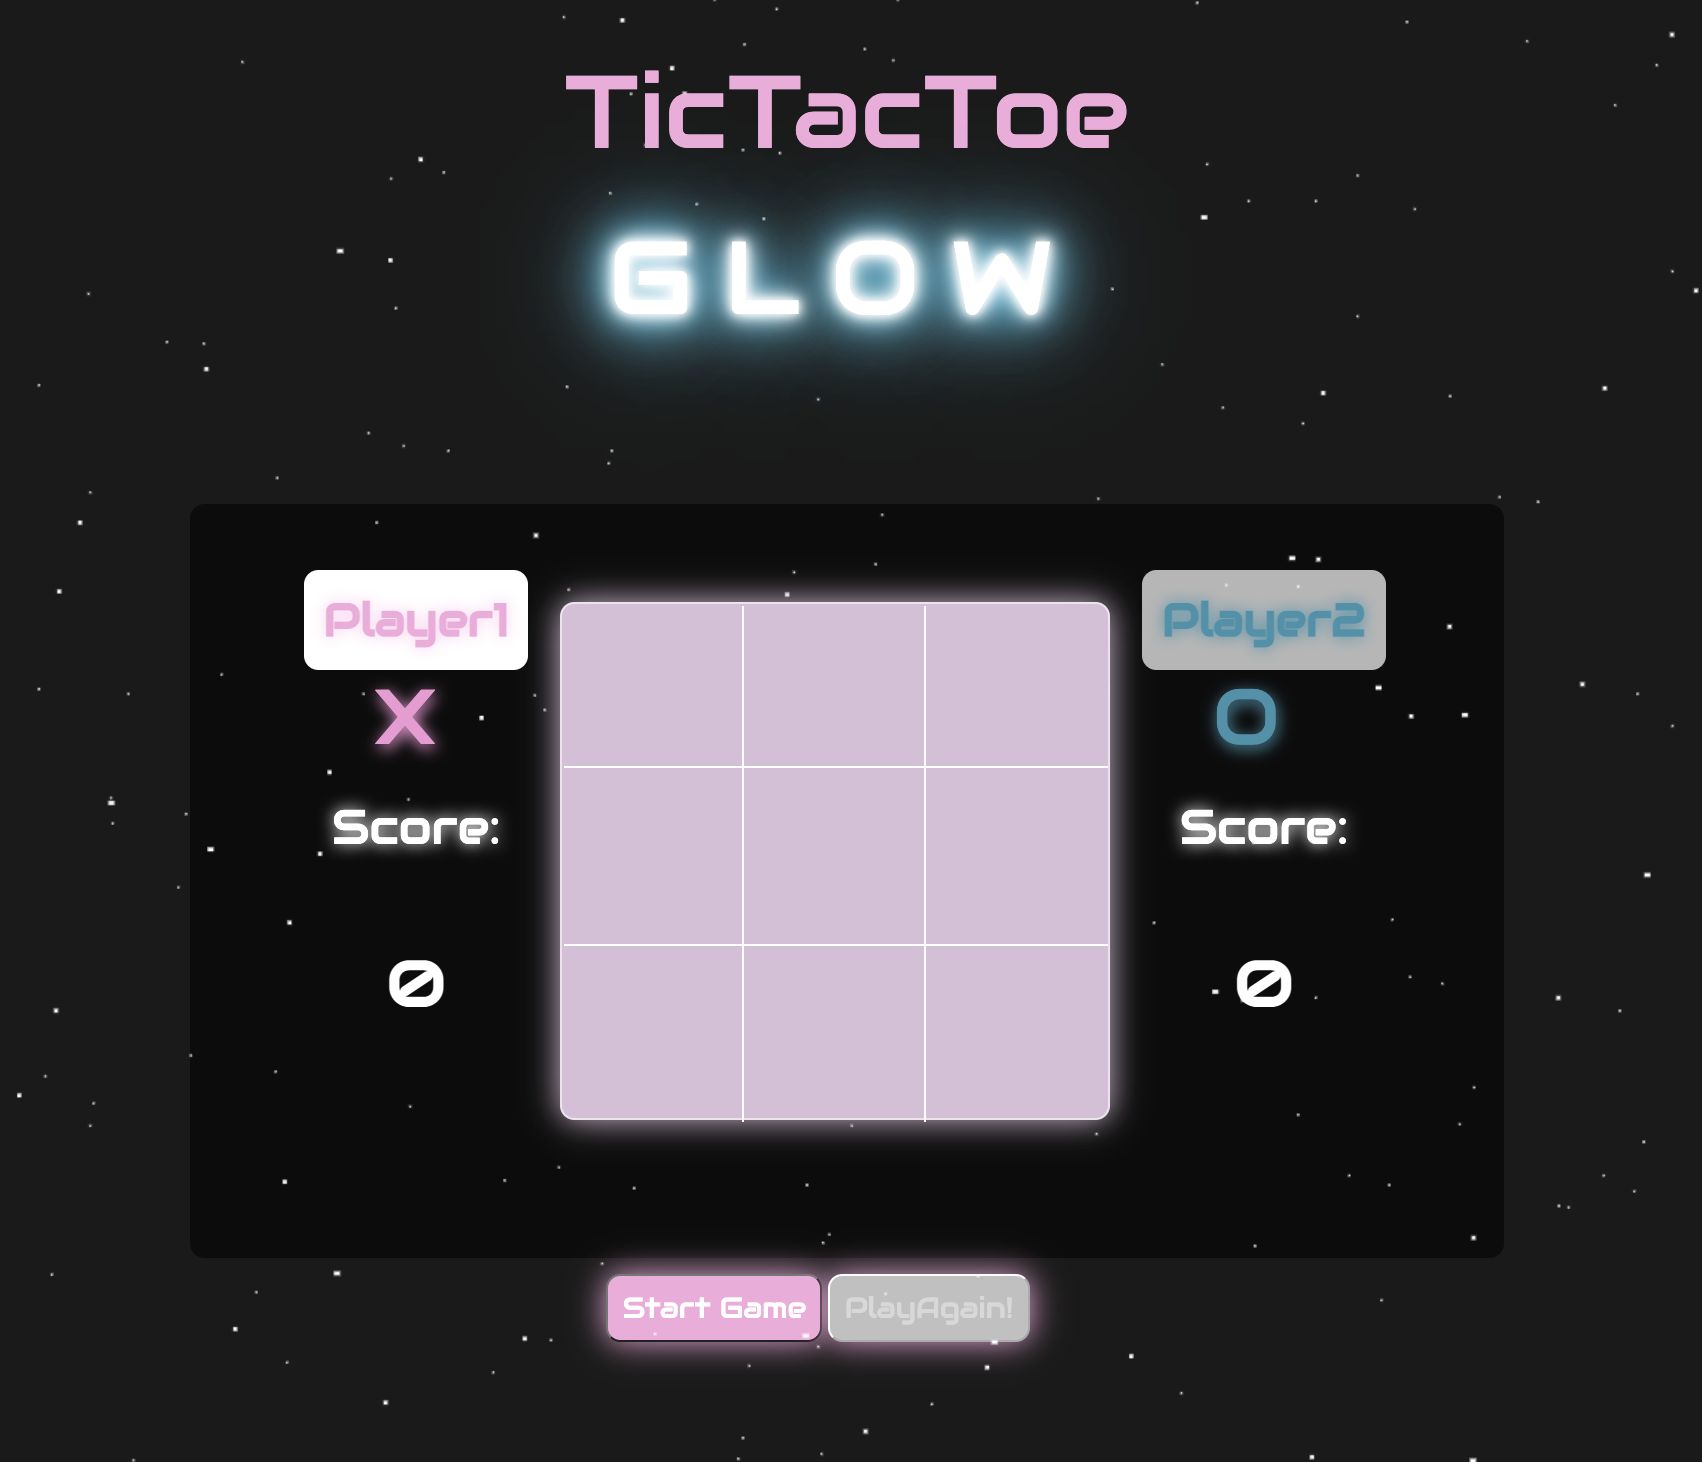
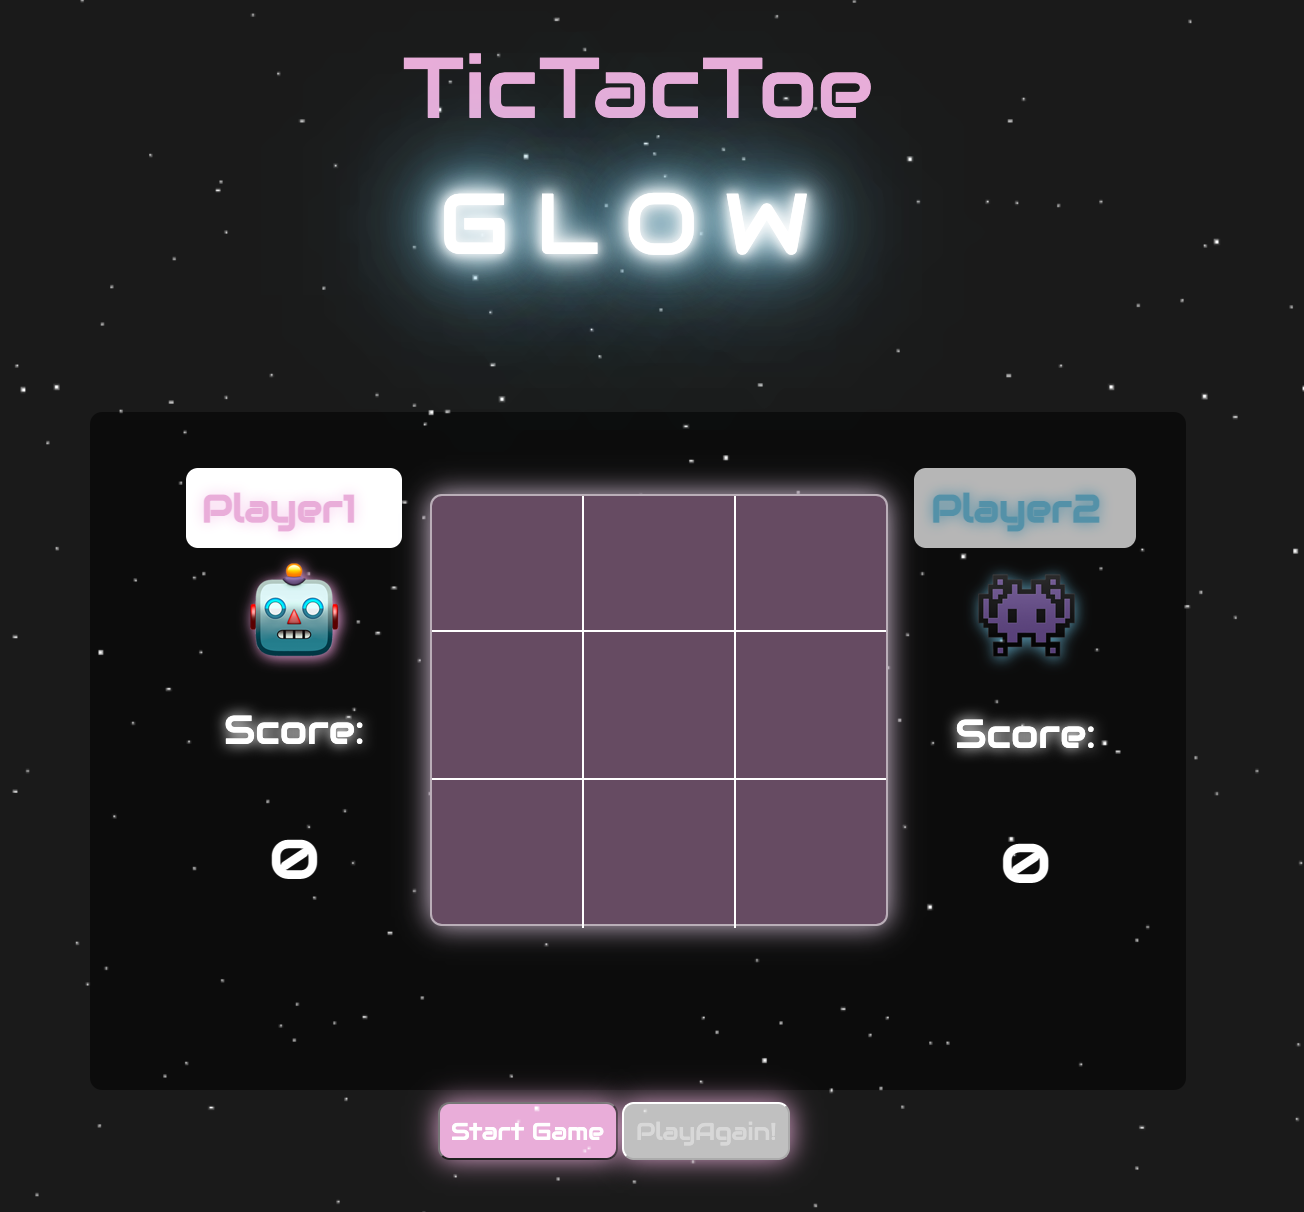
Modified

Changed region(s): [[0.1227, 0.3663, 0.8896, 0.7937], [0.2761, 0.0305, 0.6748, 0.2442], [0.3067, 0.8548, 0.6442, 0.9769]]

diff --git a/README.md b/README.md
@@ -1,16 +1,16 @@
 # TicTacToeGlow
 
-TicTacToe is a a game in which two players alternately put Xs and Os in compartments of a figure formed by two vertical lines crossing two horizontal lines and each tries to get a row of three Xs or three Os before the opponent does.
+TicTacToe is a a game in which two players alternately put 🤖 and 👾 in compartments of a figure formed by two vertical lines crossing two horizontal lines and each tries to get a row of three 🤖 or three 👾 before the opponent does.
 
 ## Table of Contents
 1. [General Info](#general-info)
 2. [Technologies](#technologies)
 4. [Screenshots](#Screenshots)
-5. [User Stories](#UserStories)
+5. [User Stories](#User-Stories)
 6. [Planning/Development](#Planning/Development)
-7. [Howtobecomeawinner](#Howtobecomeawinner)
-8. [UnsolvedProblems](#UnsolvedProblems)
-9. [favoritefunctions](#favoritefunctions)
+7. [How to become awinner](#How-to-be-comea-winner)
+8. [Unsolved Problems](#Unsolved-Problems)
+9. [favorite functions](#favorite-functions)
 10. [Installation](#installation)
 11. [FAQs](#faqs)
 
@@ -60,7 +60,7 @@ Main Page:
   * create mainpage for game Image
 * work on the Design of index.html as the main page of the game.
 * work on main.js file to build the logic of the game.
-work on style.css file to build the styling of the game.
+* work on style.css file to build the styling of the game.
 
 
 
@@ -83,8 +83,8 @@ Nothing
 * First, Player 1 has to make the first move
 * Both players play the game untill winner got scored.
 
-### favorite functions:
-`function playgame() {
+### Favorite Functions:
+`(function playgame() {
     // restart the game
     Player1Score = 0;
     Player2Score = 0;
@@ -101,7 +101,7 @@ Nothing
 
     $(".container .playerone h5").css("display", "none");
     $(".container .playertwo h5").css("display", "none");
-};`
+};)`
 
 
 
